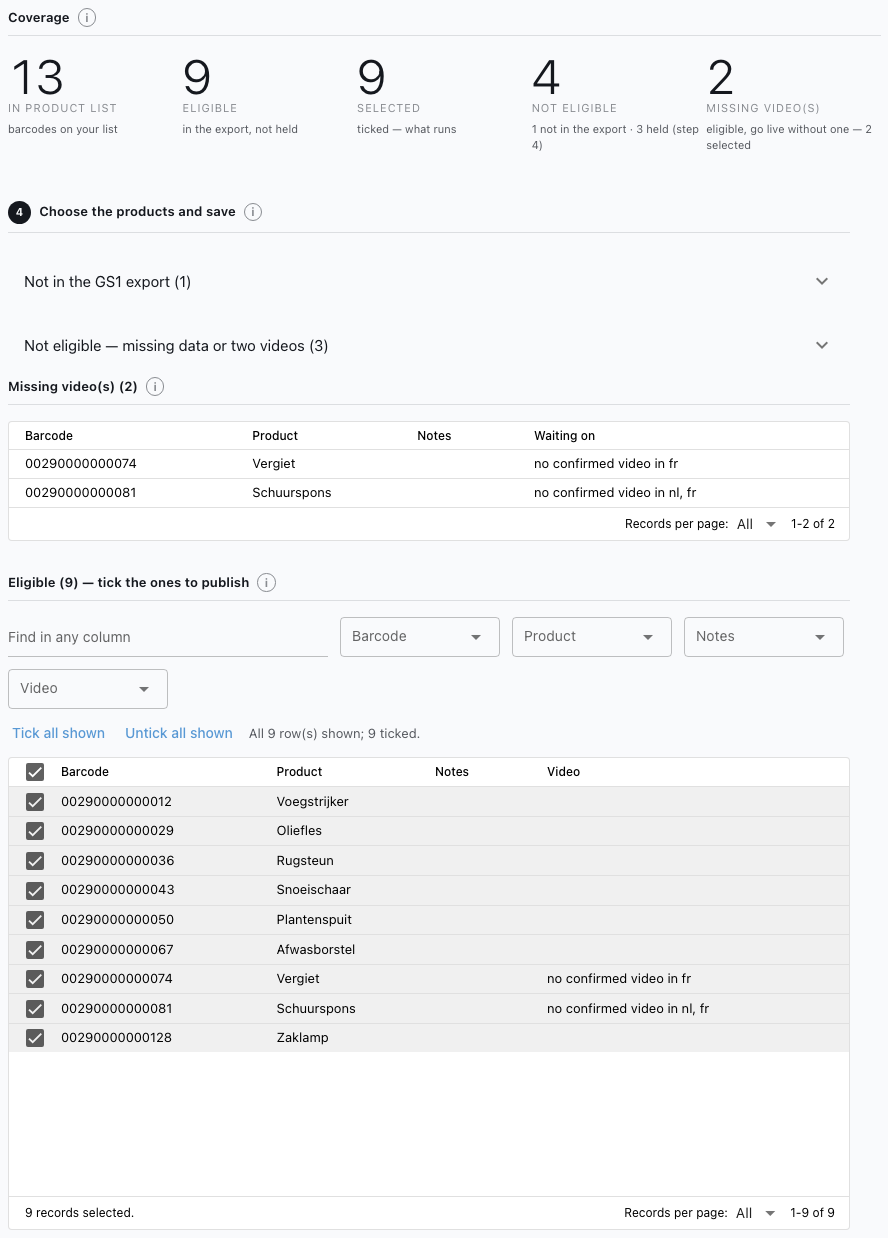
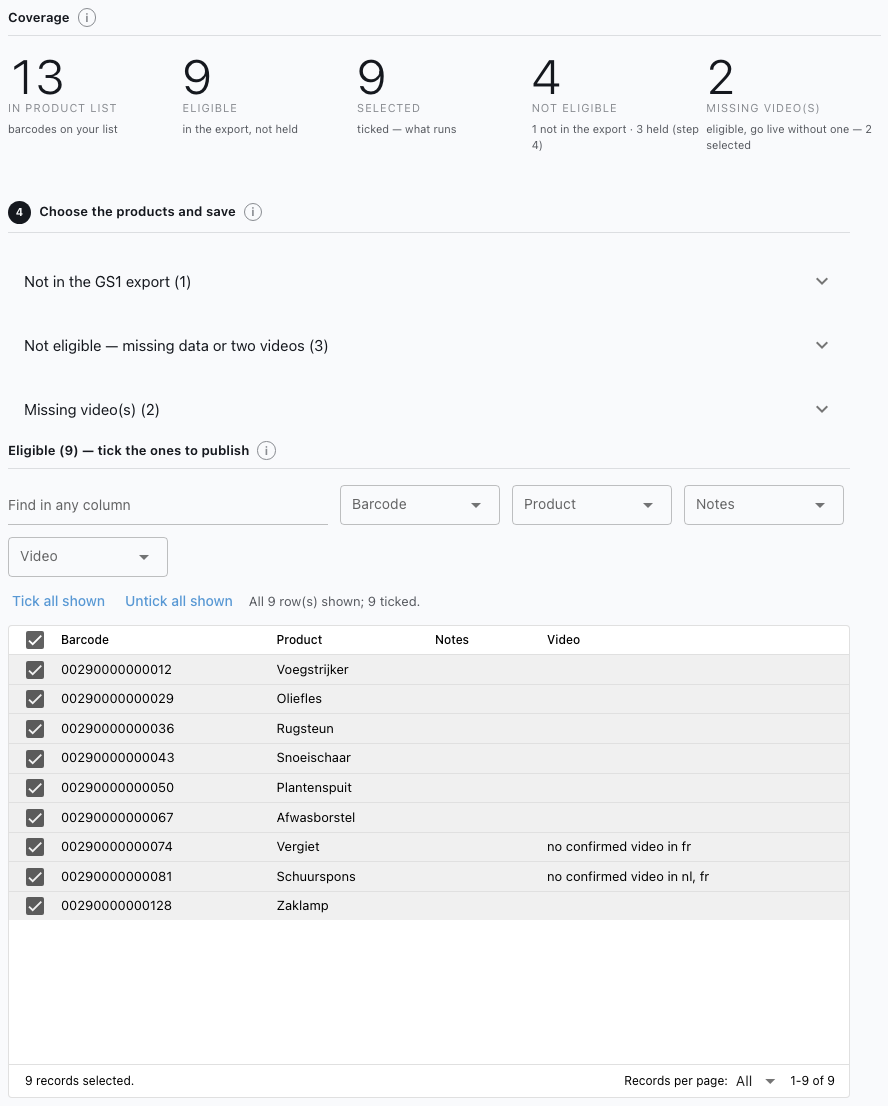
feat(ui): fold "Missing video(s)" by default, like the other two
Operator feedback: all three read-only tables start collapsed with their
count in the title. The missing-video products stay visible in the eligible
table's Video column.

diff --git a/ui/batch_grid.py b/ui/batch_grid.py
@@ -230,6 +230,7 @@ def choose(  # noqa: PLR0913 — the batch, its verdict, its save, its caption, 
         "confirms a video, the next run adds it to the page.",
         [*columns, _wrapping(_VIDEO, "Waiting on")],
         bare,
+        collapsed=True,
     )
     grid = _scope_table(columns, eligible, untick=ticks.unticked)
     keys = {int(row[_ROW]) for row in eligible}
@@ -283,8 +284,8 @@ def _readonly(
     """A headed table with no choice in it. Absent when empty: an empty table is not a finding.
 
     ``collapsed`` folds it, with the count in the title so the fold still says how many: the
-    operator asked for the two tables of products a run cannot publish to start shut — they are
-    reference, and the eligible table is the work.
+    operator asked for all three read-only tables to start shut — they are reference, and the
+    eligible table (which repeats the missing videos in its Video column) is the work.
     """
     if not rows:
         return

diff --git a/docs/operator-guide.md b/docs/operator-guide.md
@@ -98,7 +98,7 @@ nothing is deleted, and the client's video sign-offs are not touched.
 
    The three sit side by side because none of them waits on another: bring whichever you have.
 
-<img src="images/data-choose.png" alt="Coverage figures — 13 in product list, 9 eligible, 9 selected, 4 not eligible, 2 missing videos — then step 4: the folded tables Not in the GS1 export and Not eligible, each with its count, a table of products missing a video, and the eligible products with tick boxes." width="900">
+<img src="images/data-choose.png" alt="Coverage figures — 13 in product list, 9 eligible, 9 selected, 4 not eligible, 2 missing videos — then step 4: the folded tables Not in the GS1 export, Not eligible and Missing video(s), each with its count, and the eligible products with tick boxes." width="900">
 
 **Coverage** counts your batch, in products, from left to right: how many are **in your product
 list**, how many of those are **eligible** (the export has them and nothing stops them being
@@ -121,9 +121,10 @@ live **without a video**. The figures change as you tick.
      only one where the choice is yours. Every row arrives ticked; the **Video** column repeats
      which languages a product goes live without a video in.
 
-   The first two start **folded** — press the title to open one; the count is in the title either
-   way. They have no tick boxes on purpose: nothing can publish those products, so there is nothing
-   to choose. They stay in your list either way.
+   The first three start **folded** — press the title to open one; the count is in the title either
+   way. None of them has tick boxes: nothing can publish the first two, so there is nothing to
+   choose, and the missing-video products are ticked in the eligible table below. Products that
+   are not eligible stay in your list either way.
 
    > ⚠ **A tick means keep.** Untick a product to leave it out. If you used an earlier version of
    > this app, the button under the table said *Remove selected rows* and meant the opposite — it

diff --git a/docs/ui-operator-shell.md b/docs/ui-operator-shell.md
@@ -144,7 +144,7 @@ on a product exactly when the plan would publish it; `tests/lib/test_eligibility
 both settings of `media.publish_without_video`.
 
 **Step 4 splits the list four ways, in reading order:** not in the GS1 export · not eligible (with a
-*Why* column) · missing video(s) · eligible. Only the last has tick boxes, and the first two start **folded** with their
+*Why* column) · missing video(s) · eligible. Only the last has tick boxes, and the first three start **folded** with their
 count in the title (operator feedback): they are reference, the eligible table is the work. A save keeps the ticked
 eligible rows **and every row that is not eligible**: nothing can run those, and keeping them is what
 lets the result sheet name them afterwards. Unticks live in a per-client `batch_grid.Ticks` for the
